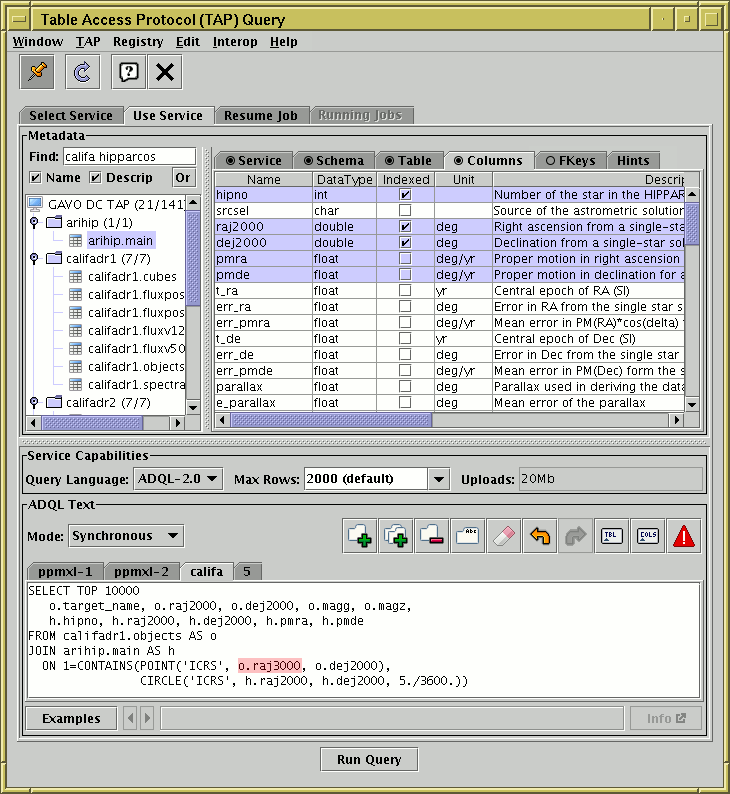
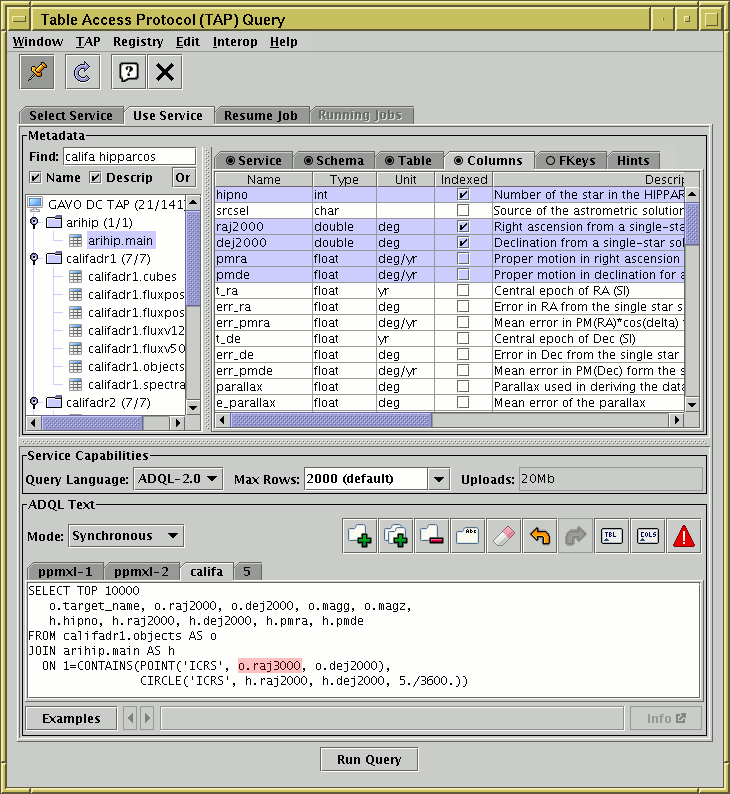
vo: improve TAP column metadata display
Make a few adjustments to the JTable that's displayed in
the Columns tab of the TAP metadata browser.

The main thing is to replace the (low-level) DataType column with
the more user-friendly Type column; this contains text that describes
both the datatype and the (newly available) arraysize.
Previously, the arraysize wasn't visible.

The TAP 1.0 "size" column still isn't visible, because it's a pain
to handle.  Arguably it should be, but since nobody has complained
about it up till now, and TAP 1.1 is now being implemented, I'm not
going to attempt it at least until somebody asks me to.

A couple of more cosmetic things: reorder the columns a bit, and
also include the new (TAP 1.1) Xtype item.

Changed region(s): [[0.6027, 0.2116, 0.663, 0.5139], [0.5123, 0.2116, 0.5726, 0.5139], [0.4521, 0.2116, 0.5123, 0.2418]]

diff --git a/vo/src/main/uk/ac/starlink/vo/TableSetPanel.java b/vo/src/main/uk/ac/starlink/vo/TableSetPanel.java
@@ -1034,9 +1034,29 @@ public class TableSetPanel extends JPanel {
                     return getCol( item ).getName();
                 }
             },
-            new ArrayTableColumn( "DataType", String.class ) {
+            new ArrayTableColumn( "Type", String.class ) {
                 public Object getValue( Object item ) {
-                    return getCol( item ).getDataType();
+                    ColumnMeta cmeta = getCol( item );
+                    String datatype = cmeta.getDataType();
+                    String arraysize = cmeta.getArraysize();
+                    StringBuffer sbuf = new StringBuffer();
+                    if ( datatype != null ) {
+                        sbuf.append( datatype );
+                    }
+                    if ( arraysize != null ) {
+                        String asize = arraysize.trim();
+                        if ( asize.length() > 0 && ! asize.equals( "1" ) ) {
+                            sbuf.append( '(' )
+                                .append( asize )
+                                .append( ')' );
+                         }
+                    }
+                    return sbuf.toString();
+                }
+            },
+            new ArrayTableColumn( "Unit", String.class ) {
+                public Object getValue( Object item ) {
+                    return getCol( item ).getUnit();
                 }
             },
             new ArrayTableColumn( "Indexed", Boolean.class ) {
@@ -1044,11 +1064,6 @@ public class TableSetPanel extends JPanel {
                     return Boolean
                           .valueOf( Arrays.asList( getCol( item ).getFlags() )
                                           .indexOf( "indexed" ) >= 0 );
-                }
-            },
-            new ArrayTableColumn( "Unit", String.class ) {
-                public Object getValue( Object item ) {
-                    return getCol( item ).getUnit();
                 }
             },
             new ArrayTableColumn( "Description", String.class ) {
@@ -1064,6 +1079,11 @@ public class TableSetPanel extends JPanel {
             new ArrayTableColumn( "Utype", String.class ) {
                 public Object getValue( Object item ) {
                     return getCol( item ).getUtype();
+                }
+            },
+            new ArrayTableColumn( "Xtype", String.class ) {
+                public Object getValue( Object item ) {
+                    return getCol( item ).getXtype();
                 }
             },
             new ArrayTableColumn( "Flags", String.class ) {
